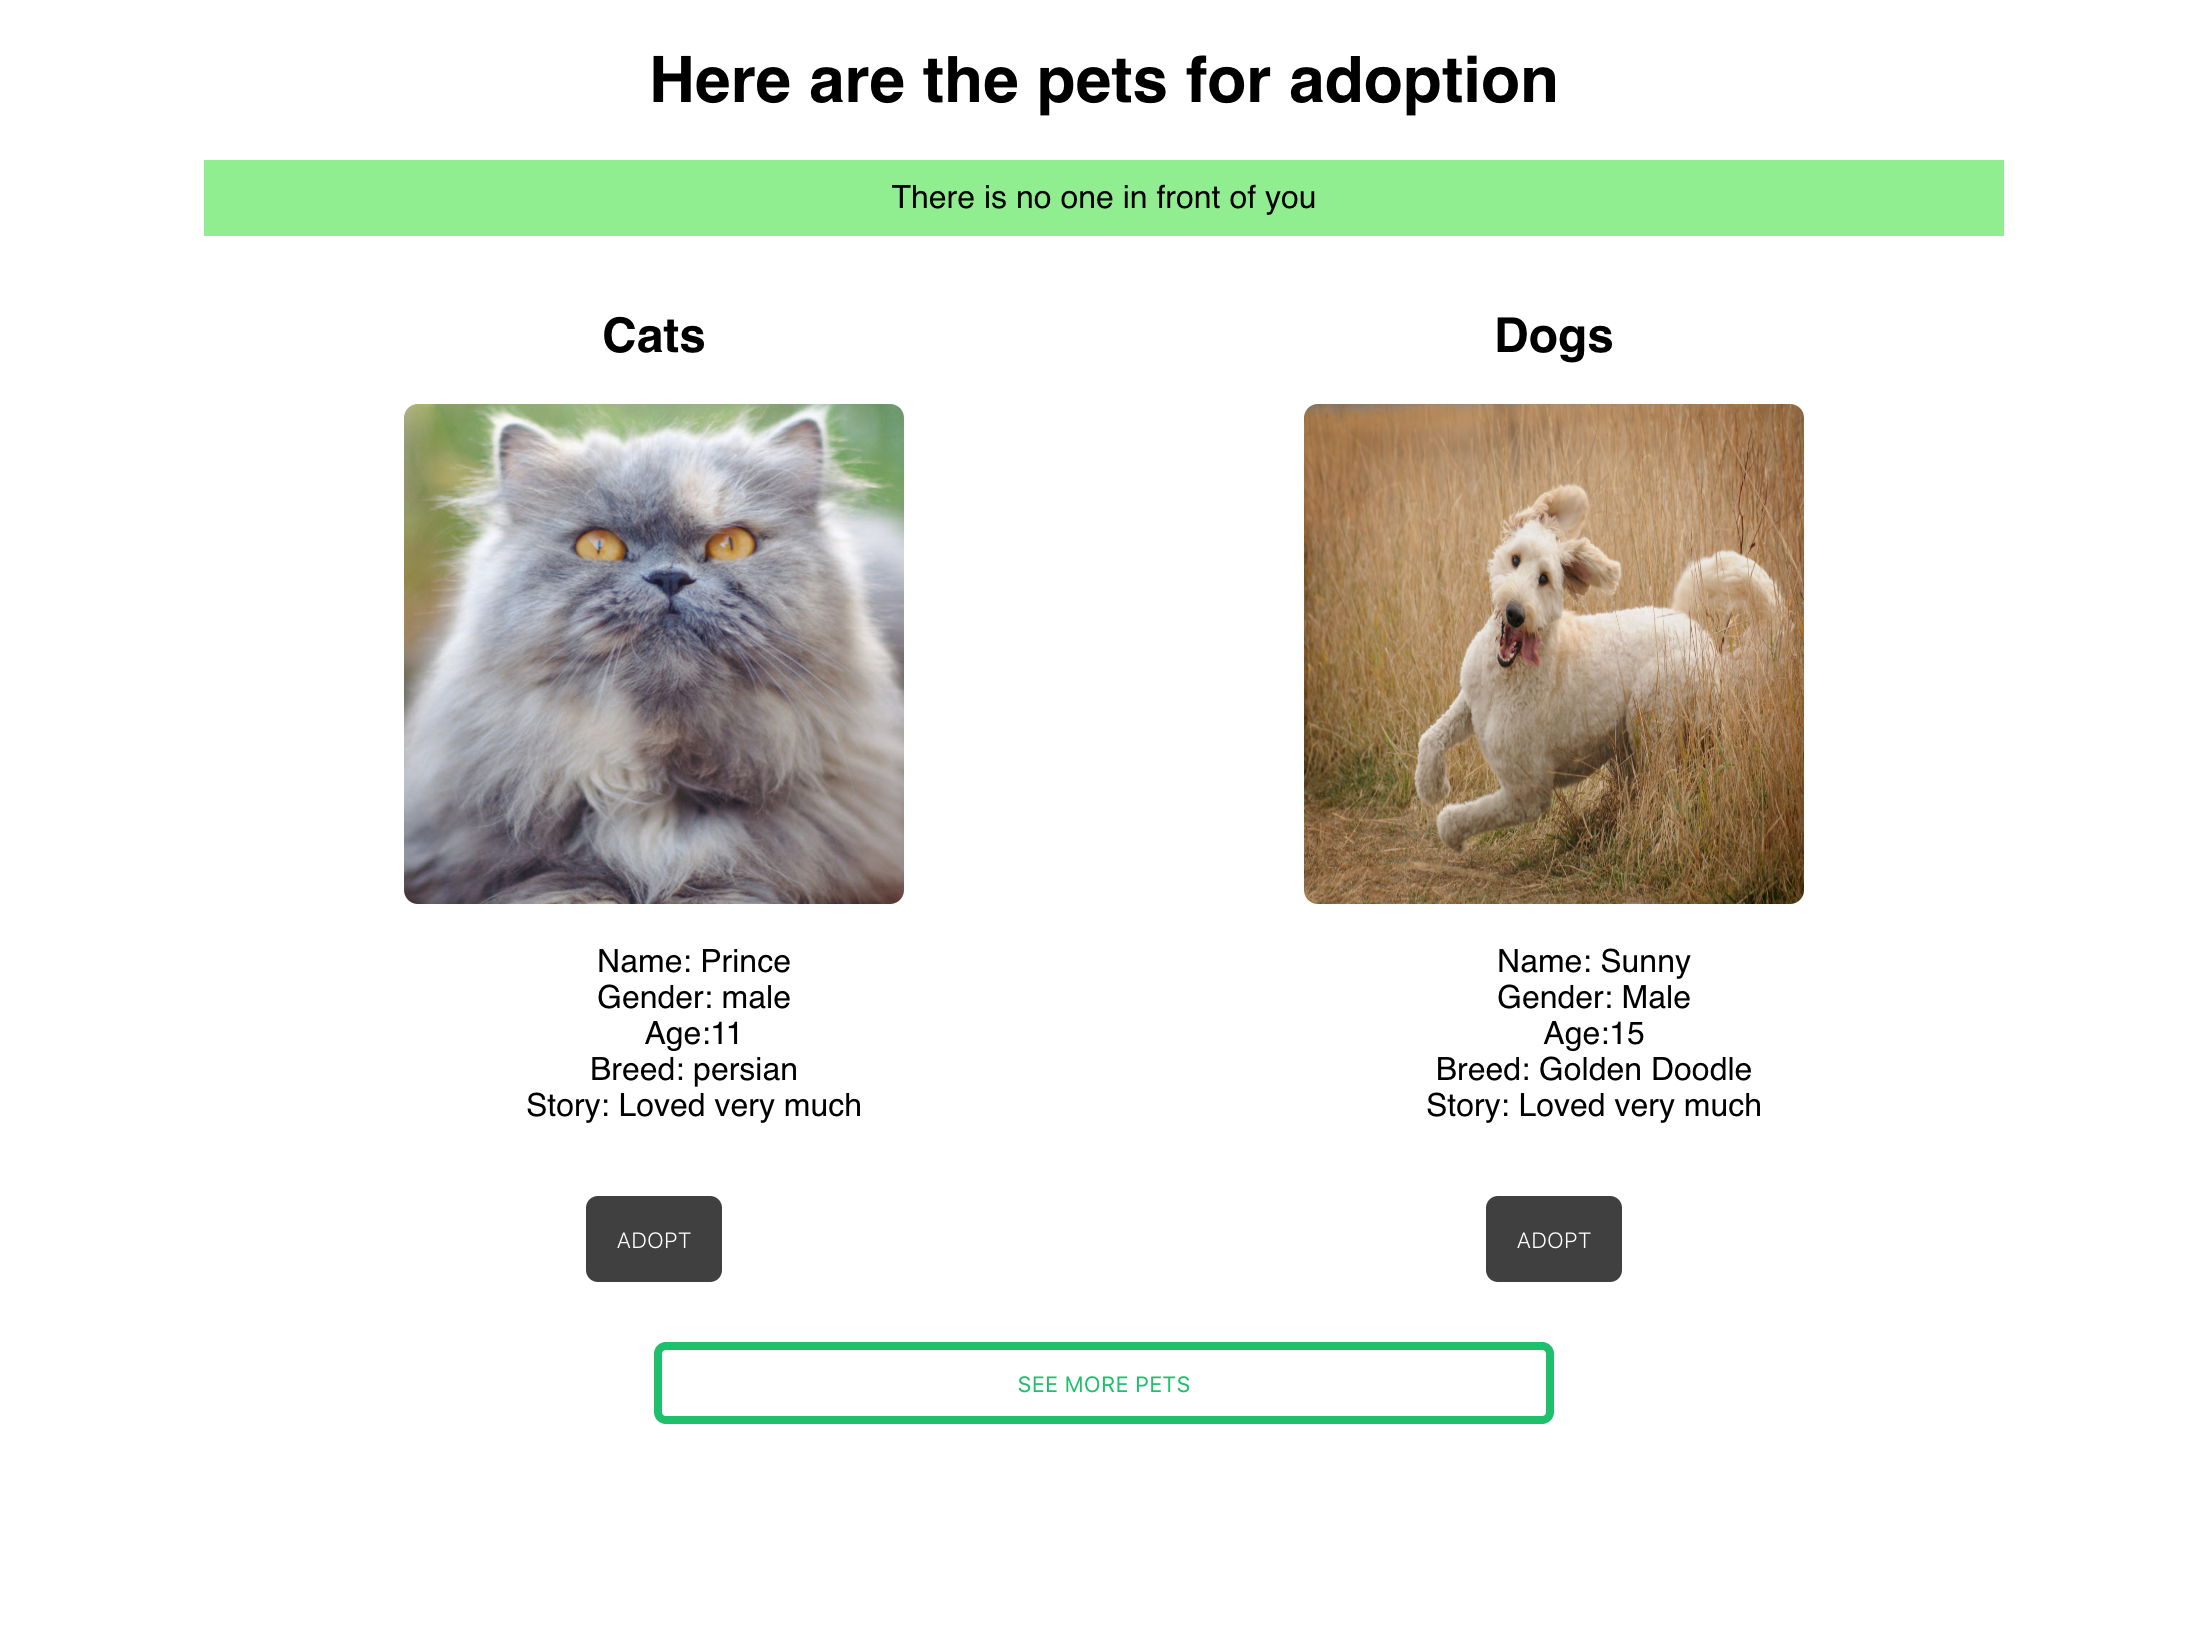
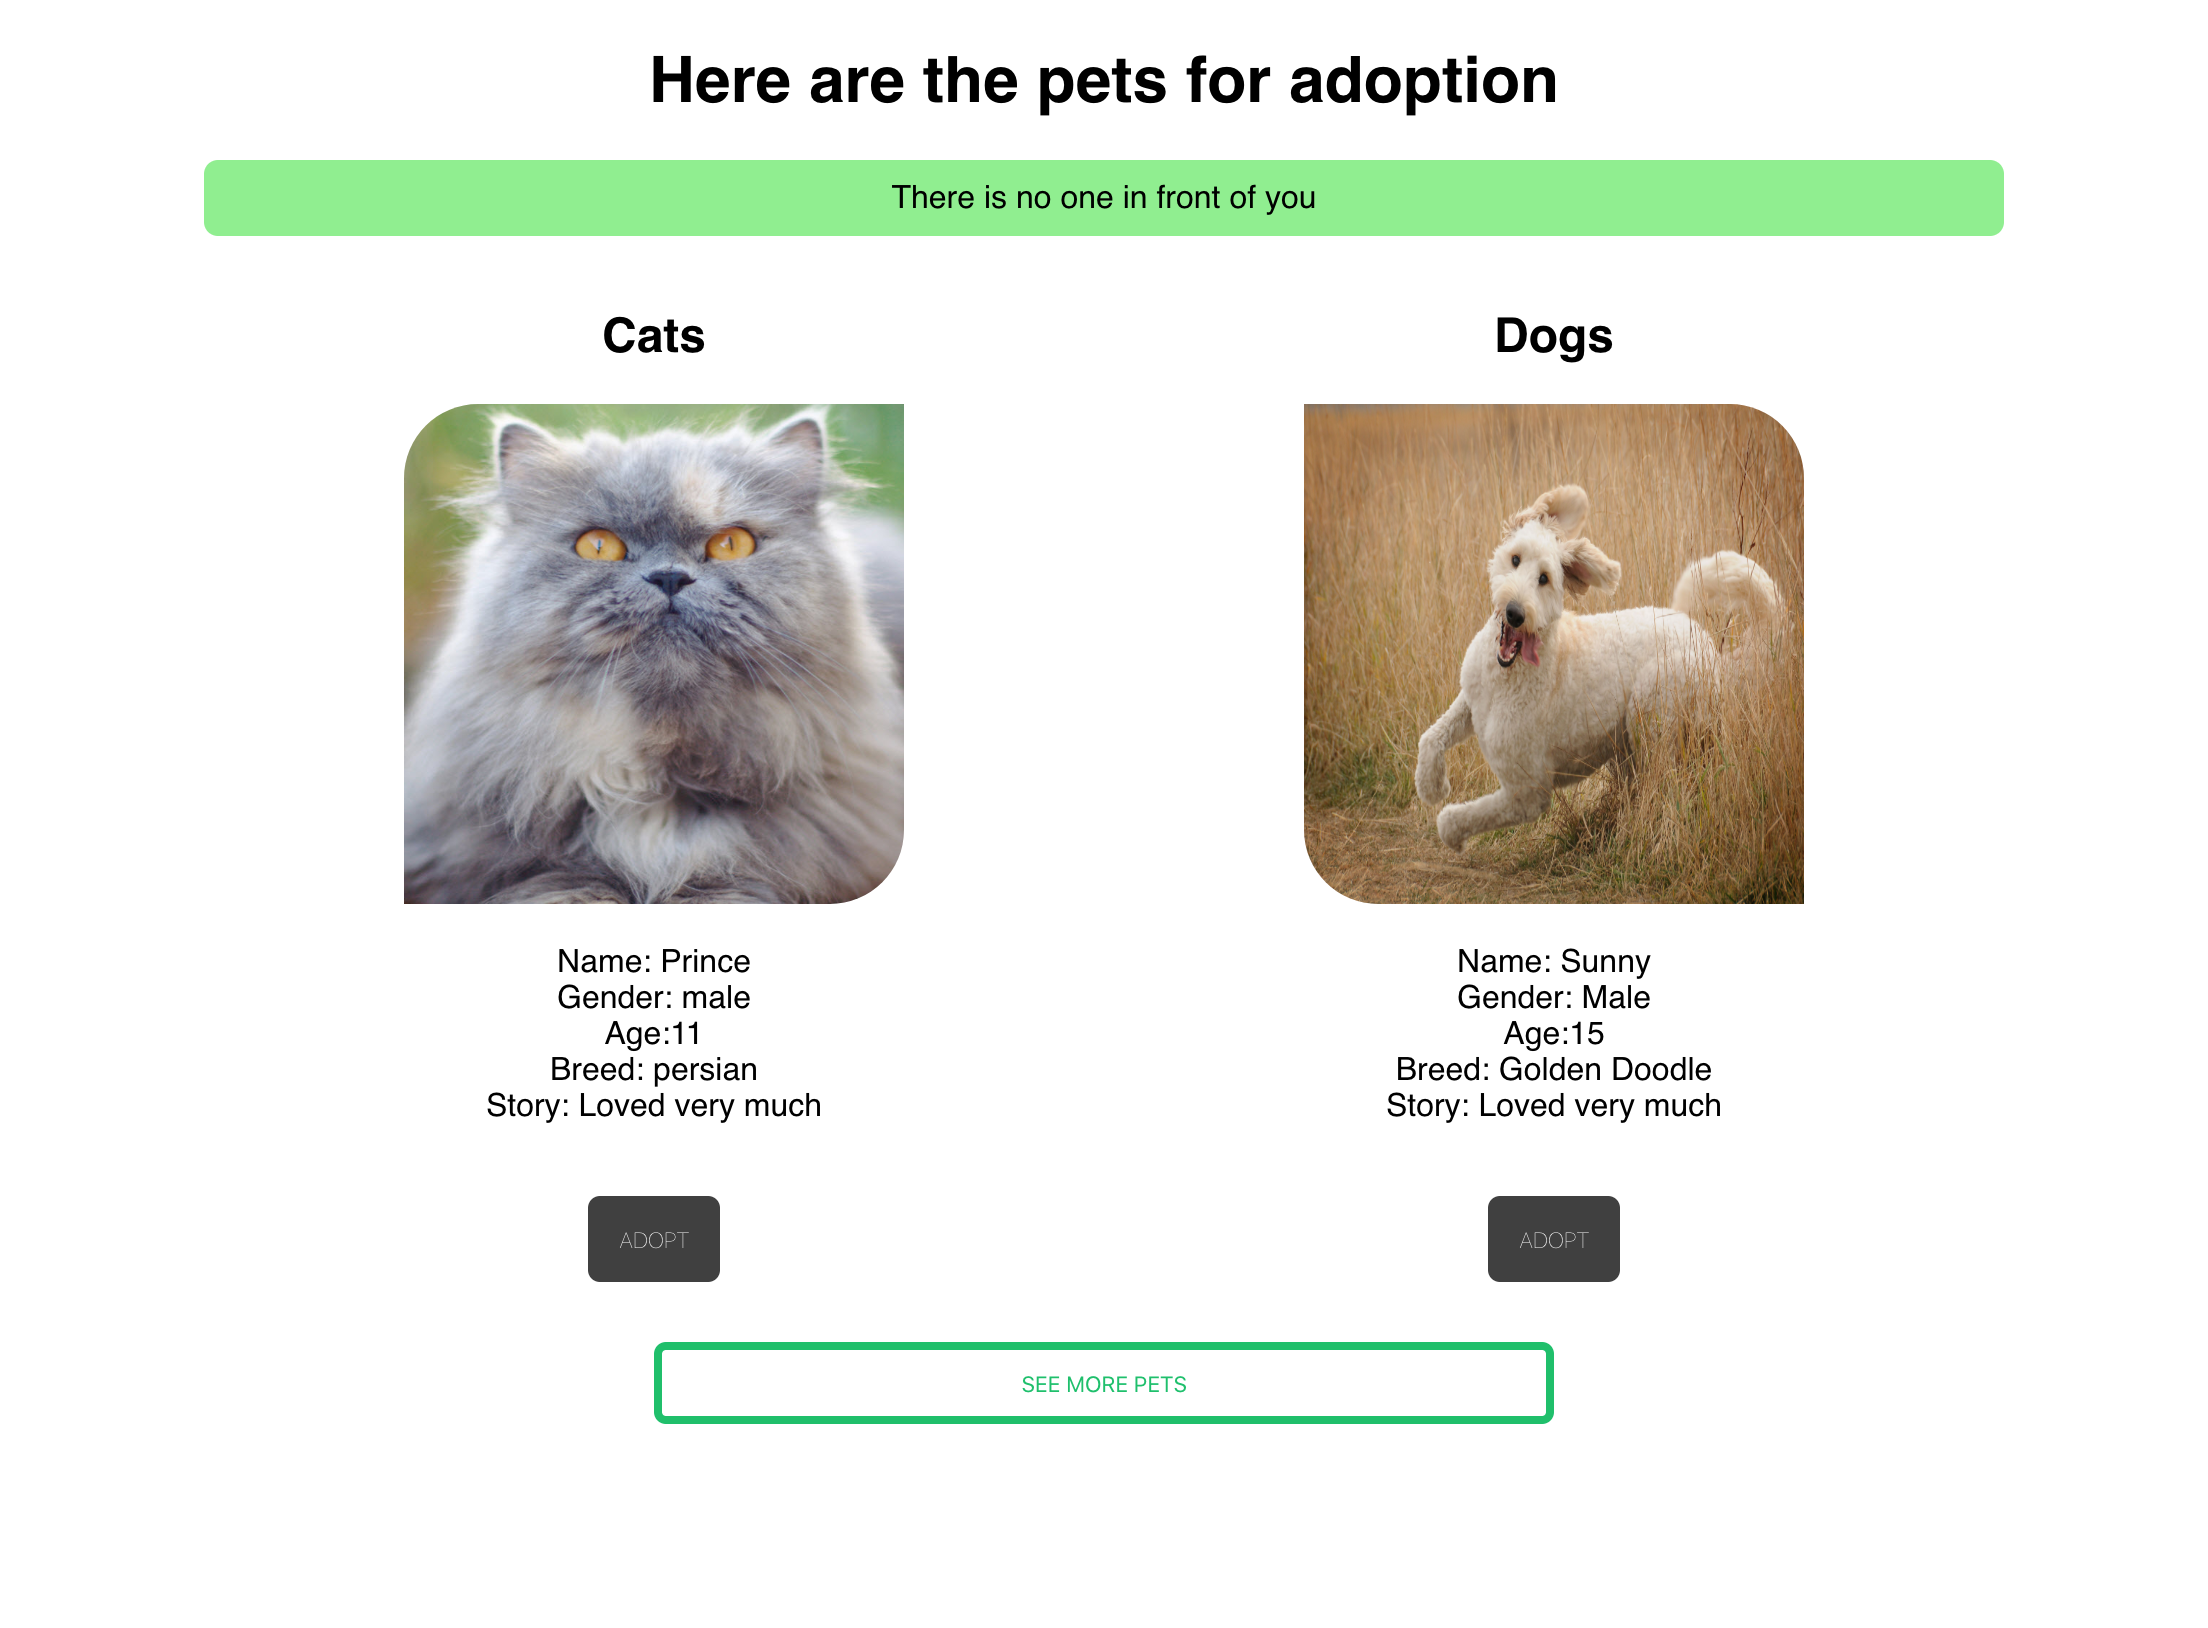
final

diff --git a/src/routes/AdoptPage/AdoptPage.js b/src/routes/AdoptPage/AdoptPage.js
@@ -103,22 +103,24 @@ export default class AdoptPage extends React.Component {
     }
   };
 
+
+
   render() {
     return (
       <div className='AdoptPage' >
         <header>
           <h1>Here are the pets for adoption</h1>
           {this.state.count < 1 && (
-            <p style={{color:'black',backgroundColor:'lightGreen',padding:10}}>There is no one in front of you </p>
+            <p style={{color:'black',backgroundColor:'lightGreen',padding:10,borderRadius:7,}}>There is no one in front of you </p>
           )}
 
           {(!this.state.catNode  && !this.state.dogNode) && (
-            <p style={{color:'white',backgroundColor:'lightcoral',padding:10,textAlign:'center', marginBottom:0}} >Sorry we dont have any more pet for adoption, Thank you</p>
+            <p style={{color:'white',backgroundColor:'lightcoral',padding:10,textAlign:'center', marginBottom:0,borderRadius:7,}} >Sorry we dont have any more pet for adoption, Thank you</p>
           )}
           
 
           {this.state.count >= 1 && (
-            <p style={{color:'white',backgroundColor:'lightcoral',padding:10,textAlign:'center', marginBottom:0}} >There are {this.state.count} of users in front of you</p>
+            <p style={{color:'white',backgroundColor:'lightcoral',padding:10,textAlign:'center', marginBottom:0,borderRadius:7,}} >There are {this.state.count} of users in front of you</p>
           )}
         </header>
         
@@ -151,10 +153,13 @@ export default class AdoptPage extends React.Component {
         
         
         </section>
-        
+
         {(this.state.catNode  && this.state.dogNode) && (
           <button style={{margin:10}} className='morePets__btn' onClick={() => this.handleSeeMore()}>See More pets</button>
           )}
+        
+
+         
 
       </div>
     );

diff --git a/src/routes/AdoptPage/AdoptPage.css b/src/routes/AdoptPage/AdoptPage.css
@@ -36,11 +36,7 @@ li {
 
 } */
 
-.pet__img {
-    width: 250px;
-    height:250px ;
-    border-radius: 7px;
-}
+
 
 .adopt__btn {
     margin: 20px;
@@ -83,7 +79,32 @@ transition: all 0.3s ease 0s;
 
         .morePets__btn:hover {
             color: #494949 !important;
-            border-radius: 50px;
+            border-radius: 60px;
             border-color: #494949 !important;
             transition: all 0.3s ease 0s;
             }
+
+            .pets__ul {
+                padding: 0px;
+            }
+            .goBack__btn {
+                color: lightcoral !important;
+                text-transform: uppercase;
+                background: #ffffff;
+                padding: 10px;
+                border: 4px solid lightcoral !important;
+                border-radius: 6px;
+                display: inline-block;
+                transition: all 0.3s ease 0s;
+                width: 50%;
+                border: none;
+                outline: none;
+        
+                }
+        
+                .goBack__btn:hover {
+                    color: #494949 !important;
+                    border-radius: 50px;
+                    border-color: #494949 !important;
+                    transition: all 0.3s ease 0s;
+                    }

diff --git a/src/components/Cats/Cats.js b/src/components/Cats/Cats.js
@@ -6,8 +6,8 @@ export default class Cats extends React.Component {
     return(
       <div className='Cats__body'>
         <h2>Cats</h2>
-        <img className='pet__img' src={this.props.cat.image} alt="cats"></img>
-        <ul>
+        <img className='cat__img' src={this.props.cat.image} alt="cats"></img>
+        <ul className='pets__ul'>
           <li>
             Name: {this.props.cat.name}
           </li>
@@ -24,6 +24,10 @@ export default class Cats extends React.Component {
             Story: {this.props.cat.story}
           </li>
         </ul>
+        {(this.props.disabled  || this.props.adoptable.name !== this.props.cat.name) && (
+          <p style={{color:'white',backgroundColor:'lightcoral',padding:10,textAlign:'center',  margin:'0px 10px',borderRadius:7,}} >This cat is in queue you cannot adopt this pet</p>
+        )}
+        {/**this pet is in queue you cannot adopt this pet */}
         <button className='adopt__btn' type="button" disabled={this.props.disabled || this.props.count !== 0 || this.props.adoptable.name !== this.props.cat.name} onClick={()=>this.props.handleCatAdopt()}>Adopt</button>
       </div>
     )

diff --git a/src/components/Dogs/Dogs.js b/src/components/Dogs/Dogs.js
@@ -5,8 +5,8 @@ export default class Dogs extends React.Component {
     return (
       <div className='Dogs__body'>
         <h2>Dogs</h2>
-        <img className='pet__img' src={this.props.dog.image} alt="dogs"></img>
-        <ul>
+        <img className='dog__img' src={this.props.dog.image} alt="dogs"></img>
+        <ul className='pets__ul'>
           <li>
             Name: {this.props.dog.name}
           </li>
@@ -23,6 +23,11 @@ export default class Dogs extends React.Component {
             Story: {this.props.dog.story}
           </li>
         </ul>
+        {(this.props.disabled  || this.props.adoptable.name !== this.props.dog.name) && (
+          <p style={{color:'white',backgroundColor:'lightcoral',padding:10,textAlign:'center', margin:'0px 10px',borderRadius:7,}} >This dog is in queue you cannot adopt this pet</p>
+        )}
+
+
         <button className='adopt__btn'  type="button" disabled={this.props.disabled  || this.props.count !== 0 || this.props.adoptable.name !== this.props.dog.name} onClick={()=>this.props.handleDogAdopt()}>Adopt</button>
       </div>
     )

diff --git a/src/components/Users/Users.css b/src/components/Users/Users.css
@@ -2,6 +2,7 @@
     background-color: lightcoral;
     /* width: 10%; */
     flex-grow:1;
+    border-radius: 0 0 7px 7px;;
    
     /* border: solid 1px black; */
 }

diff --git a/src/components/Cats/Cats.css b/src/components/Cats/Cats.css
@@ -3,3 +3,8 @@
     flex-grow:4;
     /* border: solid 1px black; */
 }
+.cat__img {
+    width: 250px;
+    height:250px ;
+    border-radius: 37px 0 37px 0px;
+}

diff --git a/src/components/Dogs/Dogs.css b/src/components/Dogs/Dogs.css
@@ -4,3 +4,8 @@
     /* border: solid 1px black; */
 
 }
+.dog__img {
+    width: 250px;
+    height:250px ;
+    border-radius: 0px 37px 0px 37px;
+}
